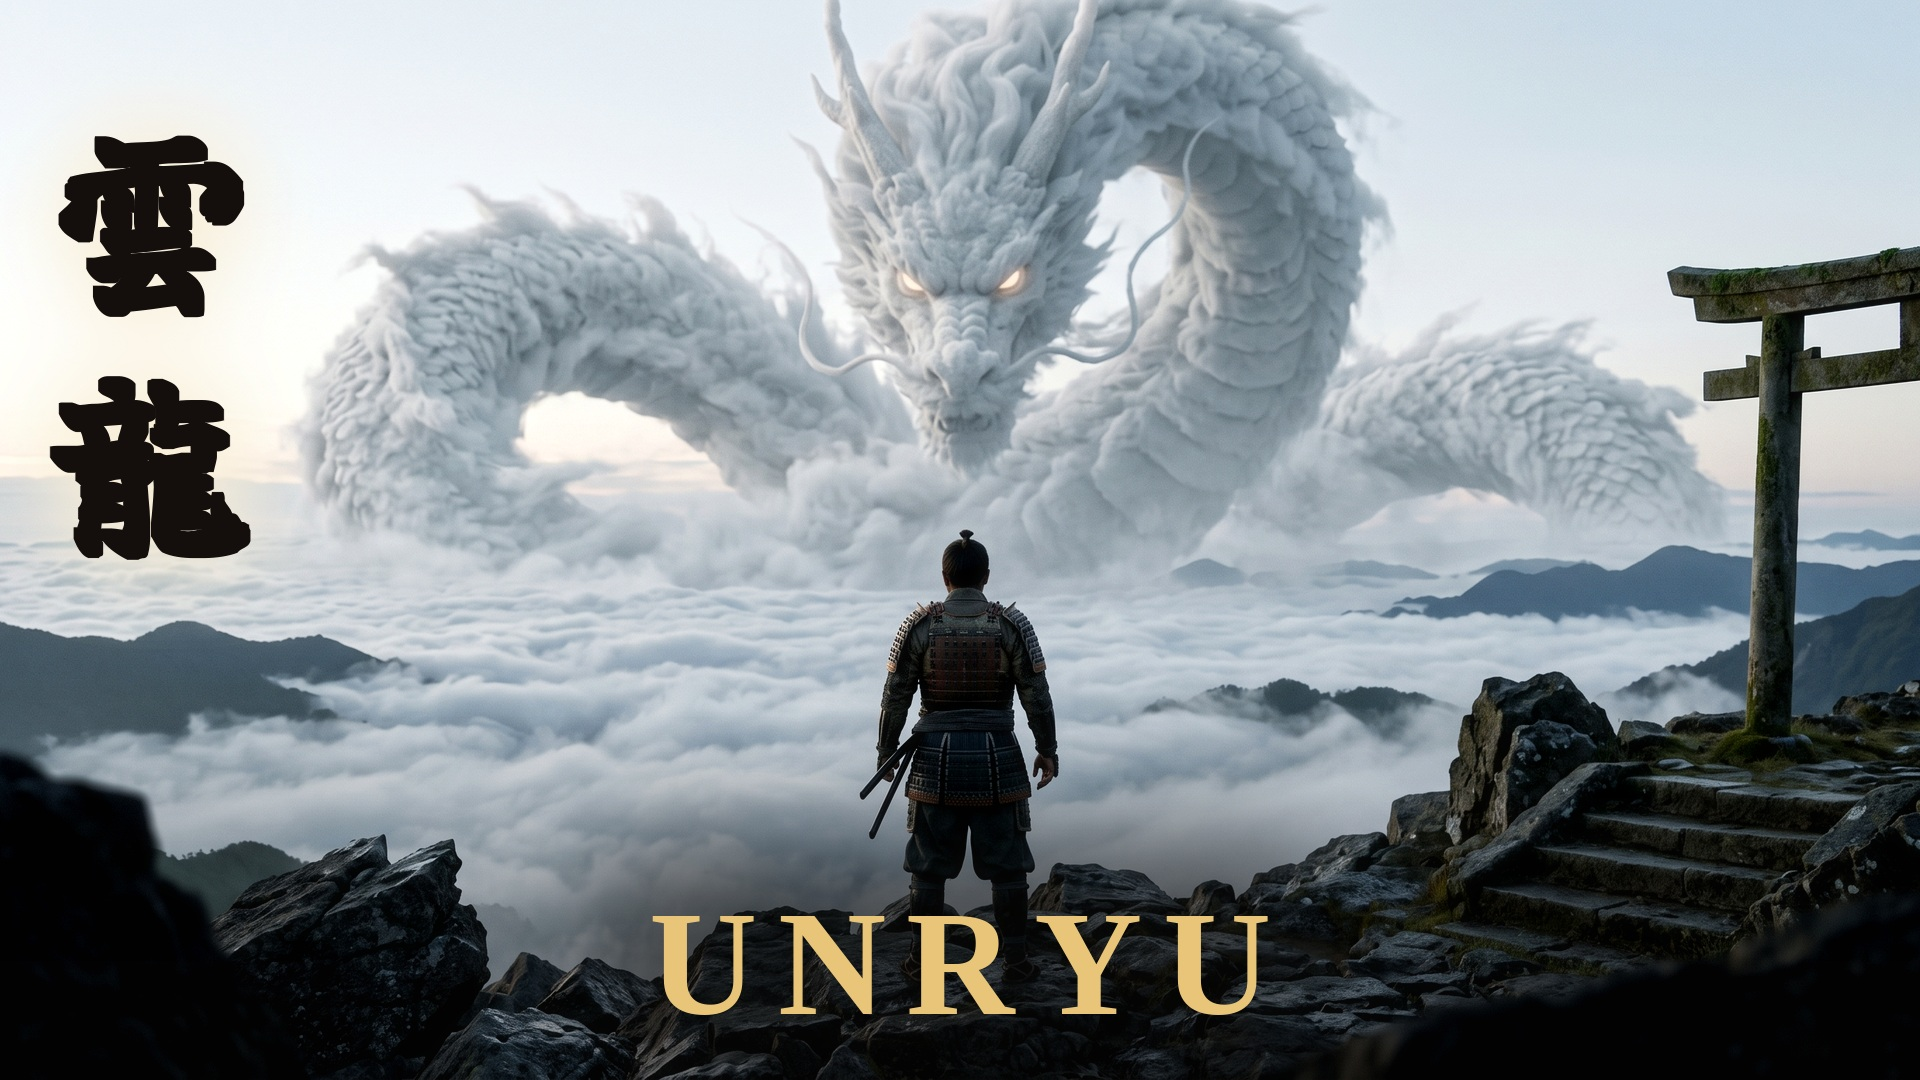
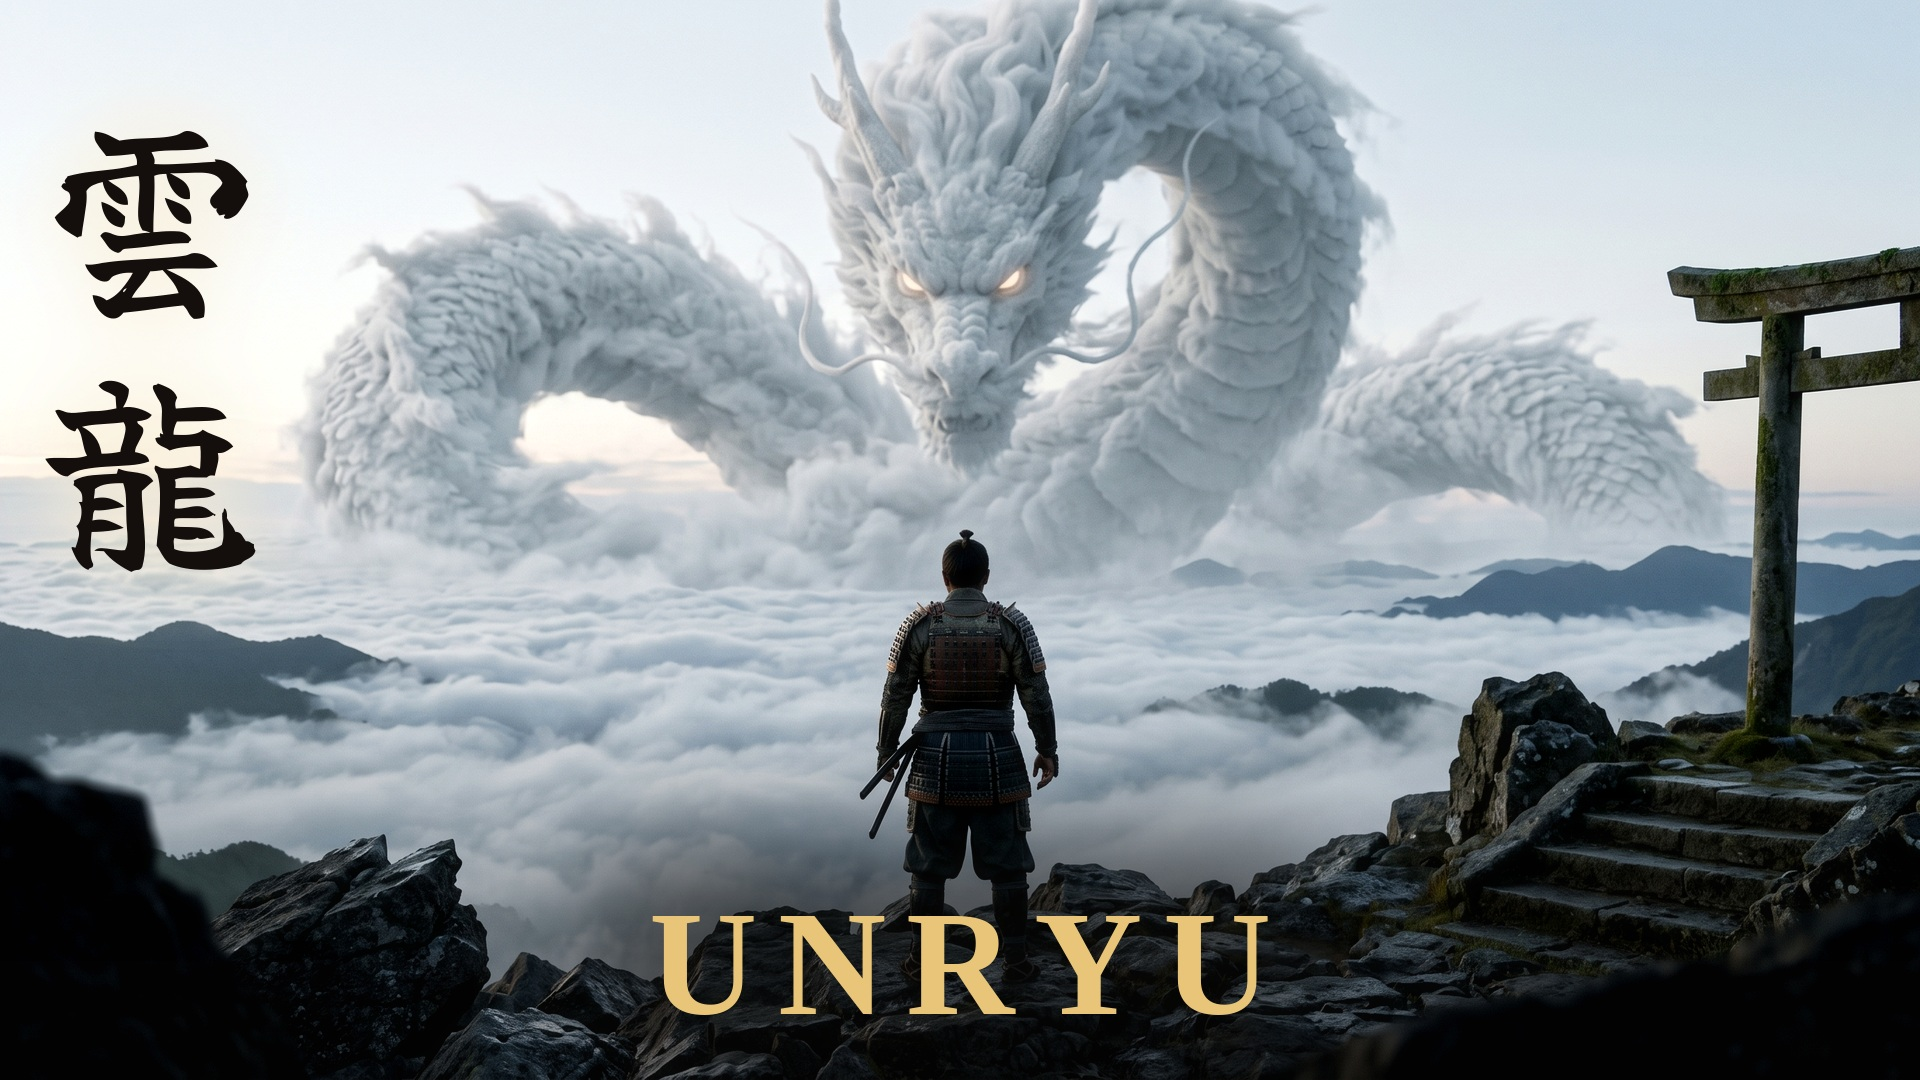
UNRYU: remove extra bold filter on calligraphic kanji — it was blobbing 龍's strokes together

Changed region(s): [[0.0312, 0.3361, 0.1562, 0.55], [0.0312, 0.1222, 0.125, 0.275]]

diff --git a/stillwave/assets/unryu-compose-thumb.py b/stillwave/assets/unryu-compose-thumb.py
@@ -113,7 +113,8 @@ def spaced_centre(im, text, size, cx, y, fill=GOLD, ls=16, font=SERIF, scrim=Tru
 im = base()
 CENTRE = 960
 # 雲龍 — VERTICAL calligraphic brush ink + cream halo, left corner, up in the cloud/sky band
-sumi_v(im, ["雲", "龍"], 200, 150, 140, pitch=240, halo=40, bold=11)
+# Yuji Syuku is already a thick brush face — NO extra MaxFilter bolding (it blobs the strokes)
+sumi_v(im, ["雲", "龍"], 220, 150, 130, pitch=250, halo=36, bold=0)
 # UNRYU — large gold serif, low-centre on the dark foreground rock
 spaced_centre(im, "UNRYU", 150, CENTRE, 880, fill=GOLD, ls=20, font=SERIF)
 im.convert("RGB").save(OUT, quality=94)
